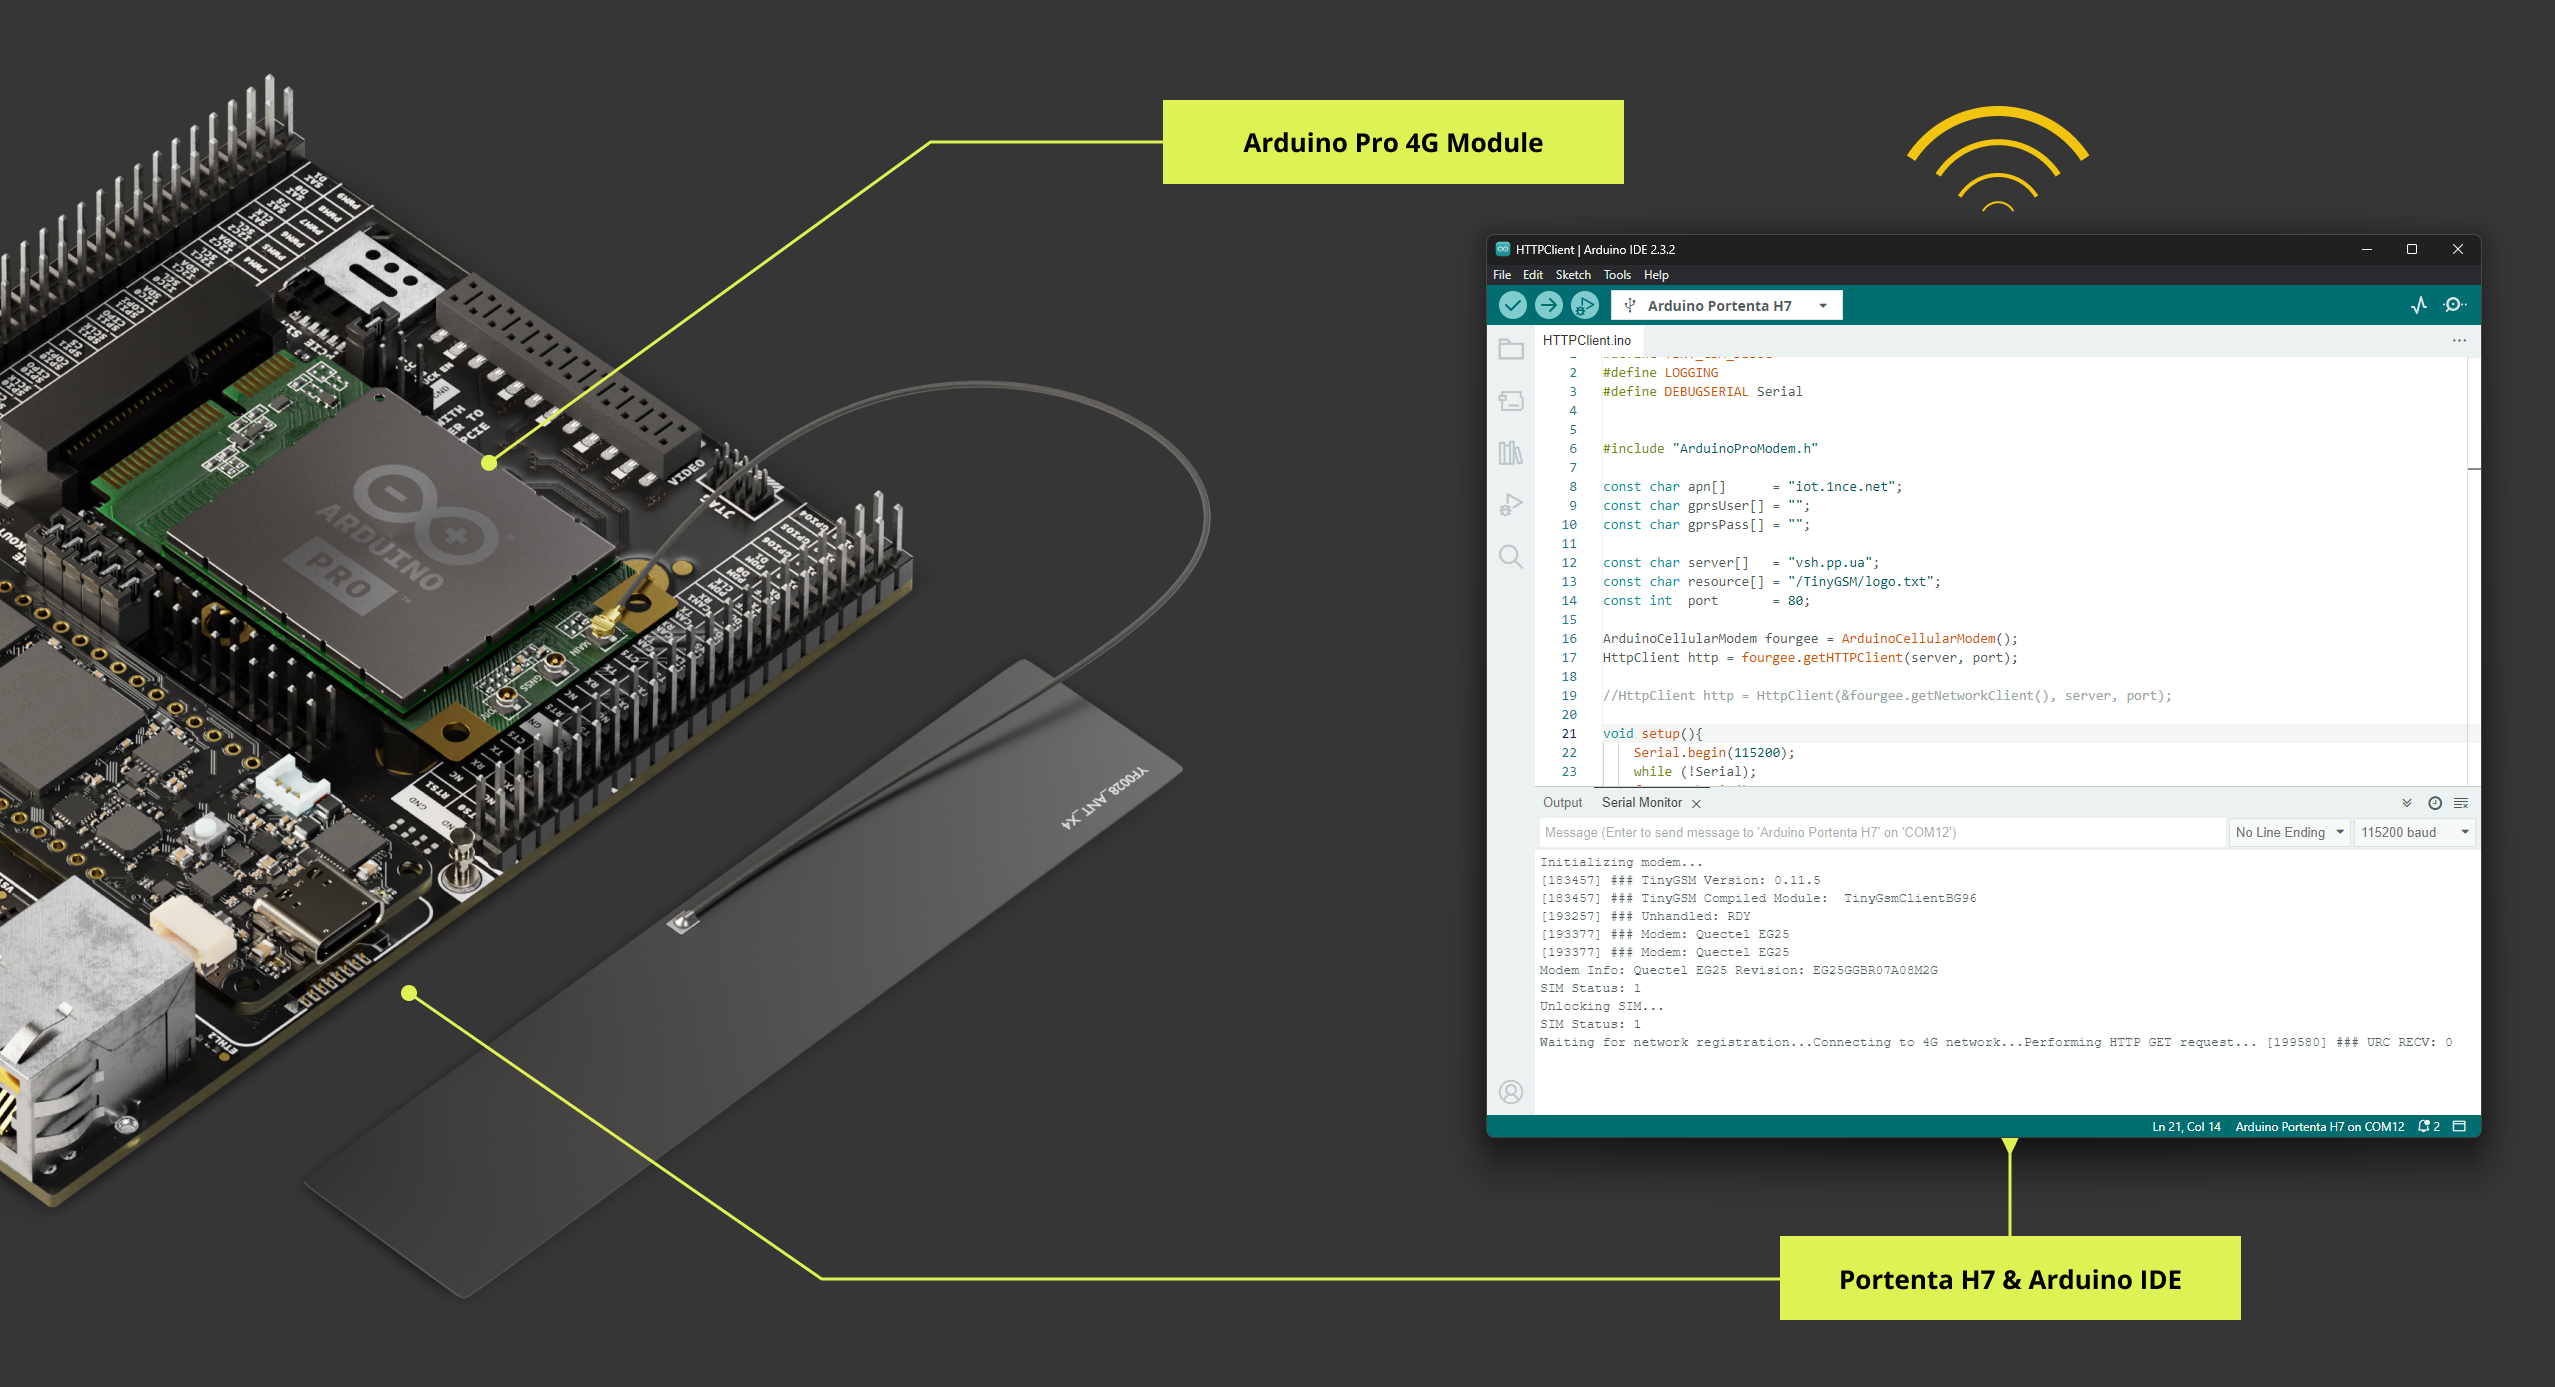
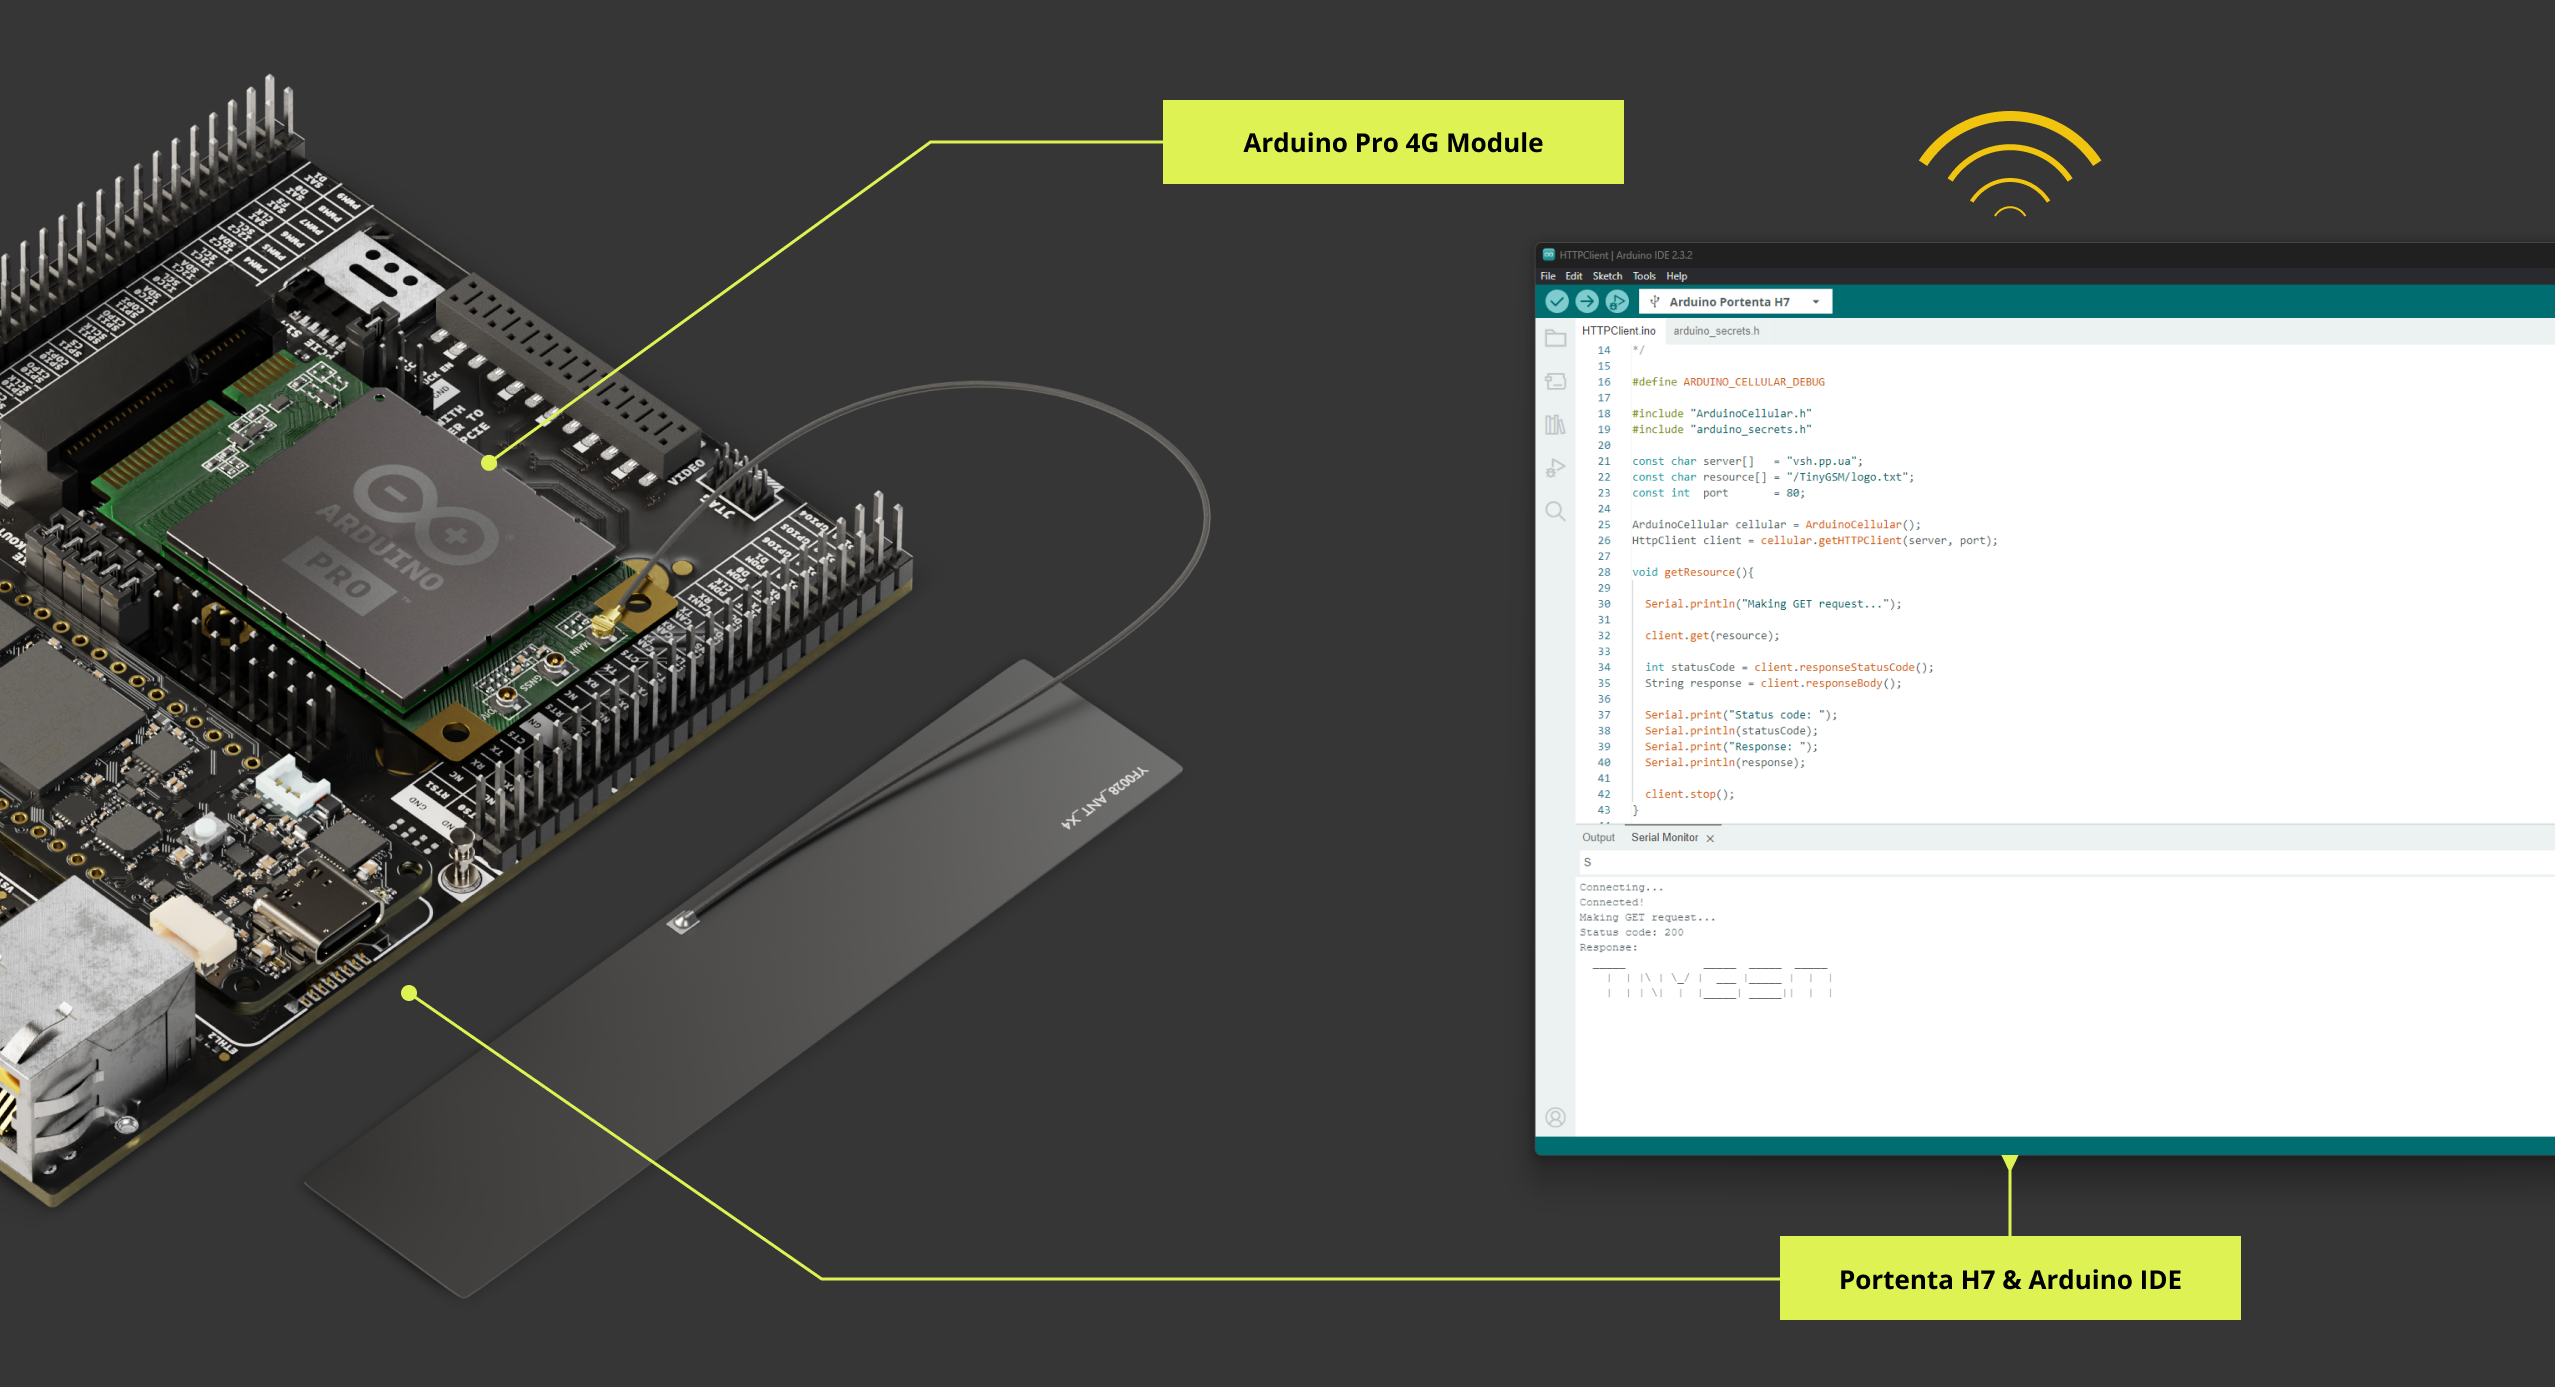
User manual contetn update

Changed region(s): [[0.5566, 0.155, 1.0, 0.8371], [0.7421, 0.062, 0.8348, 0.155]]

diff --git a/content/hardware/04.pro/carriers/portenta-mid-carrier/tutorials/user-manual/content.md b/content/hardware/04.pro/carriers/portenta-mid-carrier/tutorials/user-manual/content.md
@@ -2320,9 +2320,13 @@ The example above connects to the web and fetches resources via HTTP. The script
 - GPRS Password
 - SIM Card Pin Number
 
-These parameters will always be required to be defined to use the SIM functionalities within the modem. The image below shows an anticipated initial result of the modem detected and connecting to a 4G network:
+These parameters will always be required to be defined to use the SIM functionalities within the modem. The image below shows an anticipated result of the modem detected and connecting to a network:
 
-![Portenta H7 & Pro 4G Module - HTTPClient Example Initialized](assets/portentaMIDcarrier_h7_mpcie_4gmodem_result.png)
+![Portenta H7 & Pro 4G Module - HTTPClient Example](assets/portentaMIDcarrier_h7_mpcie_4gmodem_result.png)
+
+It will show similar result when the Portenta C33 is used as the core device with the Portenta Mid Carrier and the Pro 4G Module:
+
+![Portenta C33 & Pro 4G Module - HTTPClient Example](assets/portentaMIDcarrier_c33_mpcie_4gmodem_result.png)
 
 You may find additional examples as well within the library to try various functionalities such as deleting SMS, getting GPS location, and connecting to web servers securely:
 
